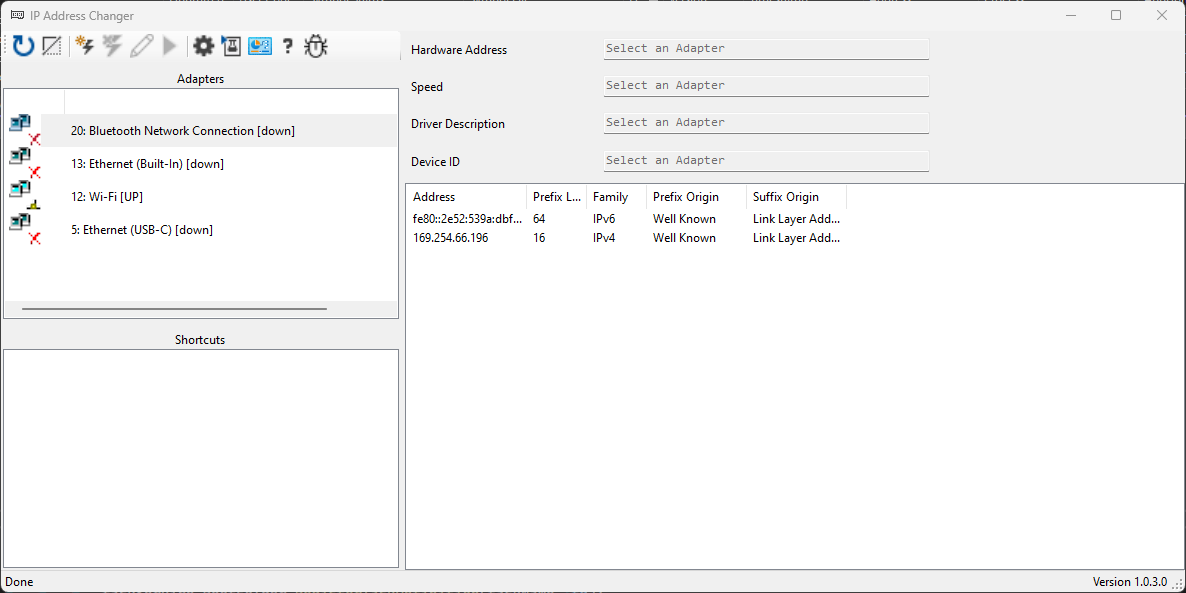
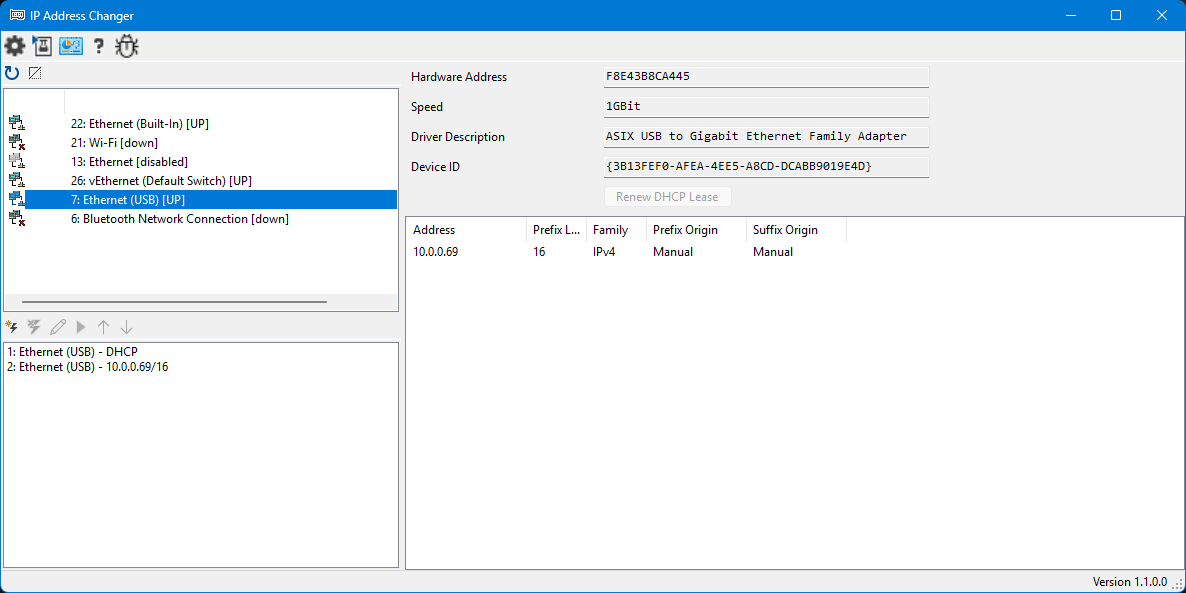
Updated readme, added changelog

diff --git a/frmAddressConflictWarning.Designer.cs b/frmAddressConflictWarning.Designer.cs
@@ -49,14 +49,14 @@ partial class frmAddressConflictWarning {
 		this.tableLayoutPanel1.RowCount = 3;
 		this.tableLayoutPanel1.RowStyles.Add(new RowStyle(SizeType.Percent, 69.06475F));
 		this.tableLayoutPanel1.RowStyles.Add(new RowStyle(SizeType.Percent, 30.9352512F));
-		this.tableLayoutPanel1.RowStyles.Add(new RowStyle(SizeType.Absolute, 23F));
+		this.tableLayoutPanel1.RowStyles.Add(new RowStyle(SizeType.Absolute, 24F));
 		this.tableLayoutPanel1.Size = new Size(444, 173);
 		this.tableLayoutPanel1.TabIndex = 2;
 		// 
 		// cmdClose
 		// 
 		this.cmdClose.Anchor = AnchorStyles.Top;
-		this.cmdClose.Location = new Point(174, 106);
+		this.cmdClose.Location = new Point(174, 105);
 		this.cmdClose.Name = "cmdClose";
 		this.cmdClose.Size = new Size(95, 37);
 		this.cmdClose.TabIndex = 2;
@@ -76,7 +76,7 @@ partial class frmAddressConflictWarning {
 		this.tableLayoutPanel2.Name = "tableLayoutPanel2";
 		this.tableLayoutPanel2.RowCount = 1;
 		this.tableLayoutPanel2.RowStyles.Add(new RowStyle(SizeType.Percent, 50F));
-		this.tableLayoutPanel2.Size = new Size(438, 97);
+		this.tableLayoutPanel2.Size = new Size(438, 96);
 		this.tableLayoutPanel2.TabIndex = 3;
 		// 
 		// txtConflictWarning
@@ -87,7 +87,7 @@ partial class frmAddressConflictWarning {
 		this.txtConflictWarning.Multiline = true;
 		this.txtConflictWarning.Name = "txtConflictWarning";
 		this.txtConflictWarning.ReadOnly = true;
-		this.txtConflictWarning.Size = new Size(364, 91);
+		this.txtConflictWarning.Size = new Size(364, 90);
 		this.txtConflictWarning.TabIndex = 0;
 		// 
 		// pictureBox1
@@ -96,7 +96,7 @@ partial class frmAddressConflictWarning {
 		this.pictureBox1.Image = Properties.Resources.warning_yellow_7231_32wx31h_exp;
 		this.pictureBox1.Location = new Point(3, 3);
 		this.pictureBox1.Name = "pictureBox1";
-		this.pictureBox1.Size = new Size(62, 91);
+		this.pictureBox1.Size = new Size(62, 90);
 		this.pictureBox1.SizeMode = PictureBoxSizeMode.CenterImage;
 		this.pictureBox1.TabIndex = 1;
 		this.pictureBox1.TabStop = false;
@@ -104,9 +104,9 @@ partial class frmAddressConflictWarning {
 		// chkSuppressMessages
 		// 
 		this.chkSuppressMessages.AutoSize = true;
-		this.chkSuppressMessages.Location = new Point(3, 152);
+		this.chkSuppressMessages.Location = new Point(3, 151);
 		this.chkSuppressMessages.Name = "chkSuppressMessages";
-		this.chkSuppressMessages.Size = new Size(249, 18);
+		this.chkSuppressMessages.Size = new Size(249, 19);
 		this.chkSuppressMessages.TabIndex = 4;
 		this.chkSuppressMessages.Text = "Don't show this warning again this session";
 		this.chkSuppressMessages.UseVisualStyleBackColor = true;

diff --git a/README.md b/README.md
@@ -1,11 +1,9 @@
 # IP Address Changer
 
 ## Overview
-This application allows changing IP address settings for network adapters from a quick list of user-defined configurations. IP addresses may be IPv4 or IPv6, or DHCP can be enabled. (IPv6 has not been tested.)
+This application allows changing IP address settings for network adapters from a quick list of user-defined configurations or copy/paste.
 
-The application requires elevated privileges and may only be run by a user who has administrator access to the system.
-
-The network adapter settings functionality is provided by PowerShell. If PowerShell is restricted or disabled, the application will not function properly.
+The application requires [elevated privileges](#privilege-elevation--uac-prompt) and may only be run by a user who has administrator access to the system.
 
 ## Table of Contents
 1. [Shortcuts](#shortcuts)
@@ -13,11 +11,15 @@ The network adapter settings functionality is provided by PowerShell. If PowerSh
     1. [Tool Bar](#tool-bar)
     1. [Status Bar](#status-bar)
     1. [Adapters List](#adapters-list)
+        1. [Adapter Context Menu](#adapter-context-menu)
     1. [Shortcuts List](#shortcuts-list)
+        1. [Shortcut Context Menu](#shortcut-context-menu)
     1. [Adapter Details](#adapter-details)
     1. [Adapter Address List](#adapter-addresses-list)
 1. [Notification Area Icon](#notification-area-icon)
 1. [New/Edit Shortcut Window](#newedit-shortcut-window)
+1. [Adapter Busy Dialog](#adapter-busy-dialog)
+1. [Address Conflict Warning](#address-conflict-warning)
 1. [Settings Window](#settings-window)
 1. [Debug Messages Window](#debug-messages-window)
 1. [Copyright](#copyright)
@@ -26,7 +28,7 @@ The network adapter settings functionality is provided by PowerShell. If PowerSh
 The functionality of the program revolves around Shortcuts, which are configuration presets for specific adapters. If the adapter name is changed, the shortcut should still work (it's based on its device ID). The adapter must be present for the shortcut to work, but the current adapter index does not matter because the shortcuts are based on the device ID.
 
 ## Main Window
-![Main Window](https://spectrumintegrators.github.io/IPAddressChanger/images/main.png)
+![Main Window](./images/main.png)
 
 ### Layout
 The main window is divided into a [Tool Bar](#tool-bar), a [Status Bar](#status-bar), and four areas: [Adapters List](#adapters-listadapters), [Shortcuts List](#shortcuts-list), [Adapter Details](#adapter-details), and [Adapters Address List](#adapter-addresses-list). The relative sizes of each area may be changed by dragging the bar between the areas (sizes are saved on exit).
@@ -75,12 +77,51 @@ Selecting an adapter will display additional details in the [Adapter Details](#a
 
 Double-clicking an adapter will create a new shortcut for that adapter.
 
+#### Adapter Context Menu
+
+![Adapter Context Menu](./images/adaptercontextmenu.png)
+
+Right-clicking an adapter shows a context menu with the following items:
+
+##### New Shortcut
+Creates a new empty shortcut for this adapter.
+
+##### New Shortcut with...
+Pre-fills the new-shortcut dialog with this adapter's currently configured method — either `DHCP` (if the adapter is set to acquire its address via DHCP) or the adapter's first IPv4 address and prefix length. Disabled when the adapter has neither (e.g. an adapter with no IPv4 configuration). The menu label shows what will be pre-filled, e.g. *New Shortcut with 10.0.0.69/16*.
+
+##### Renew DHCP for adapter
+Same action as the [Renew DHCP Lease](#renew-dhcp-lease) button in the [Adapter Details](#adapter-details) area. Enabled only when the adapter has IPv4 DHCP configured.
+
+##### Paste *value*
+Applies an IP/CIDR or `DHCP` value from the clipboard directly to this adapter, with the same workflow as recalling a shortcut. The menu label shows the value that will be pasted, e.g. *Paste 10.0.0.69/16* or *Paste DHCP*. Disabled when the clipboard does not contain a valid IPv4/CIDR or `DHCP` string.
+
+Note that the address in the clipboard does not have to have come from this software, if you copy a valid IP address and network prefix in CIDR notation or the literal string `DHCP`, the software will use that value to paste. If the IP address is invalid (like `123.456.789.12`), the paste feature will ignore it. Addresses with leading zeroes in an octet (`010.001.001.001`) will also be ignored.
+
+A pre-apply check refuses to assign an IP that is already in use on a different adapter on the same system, before any changes are made to this adapter.
+
 ### Shortcuts List
 This list shows all of the stored configuration preset shortcuts.
 
 Double-clicking a shortcut will either edit the shortcut or recall the shortcut, depending on the value of the [Start minimized](#start-minimized) setting.
 
 These shortcuts are also available in the Shortcuts menu of the [Notification Area Icon Menu](#notificaion-area-icon-menu).
+
+#### Shortcut Context Menu
+![Shortcut Context Menu](./images/shortcutcontextmenu.png)
+
+Right-clicking a shortcut shows a context menu with the following items:
+
+##### New Shortcut
+Creates a new shortcut.
+
+##### Edit Shortcut
+Opens the [New/Edit Shortcut Window](#newedit-shortcut-window) for the selected shortcut.
+
+##### Recall Shortcut
+Applies the selected shortcut to its associated adapter.
+
+##### Copy Shortcut
+Copies the shortcut's value (IP/CIDR or `DHCP`) to the clipboard. The clipboard contents can then be pasted onto any adapter via the [Paste](#paste-value) item on the adapter context menu.
 
 ### Adapter Details
 
@@ -95,6 +136,15 @@ The description of the driver that is used to interface with the adapter hardwar
 
 #### Device ID
 The unique identifier of this adapter.
+
+#### Renew DHCP Lease
+Releases and renews the DHCP lease on this adapter. Enabled only when the adapter has IPv4 DHCP configured. The renew operation typically completes in well under a second when a DHCP server responds, but may take 30–60 seconds when the network is unreachable or no server replies. While the process is underway, the [Adapter Busy Dialog](#adapter-busy-dialog) is displayed. It can be dismissed while the process continues in the background (additional operation on this adapter will be blocked until the process is complete). DHCP renewal errors will be shown in the [debug window](#debug-messages-window) and also in a popup dialog.
+
+![DHCP renewal error example](./images/dhcprenewerror.png)
+
+![DHCP not available error](./images/dhcprenewerror2.png)
+
+After a successful renew, the status bar suggests using [Refresh](#refresh) to update the address list with the new lease.
 
 ### Adapter Addresses List
 This shows all of the addresses configured for the selected adapter. You may resize and rearrange the columns (size and position will be saved on exit).
@@ -119,7 +169,7 @@ The origin of the host  portion of the address.
 ## Notification Area Icon
 The notification area icon appears in the notification area of the task bar near the clock (you may need to click the expand button to see it). Double-clicking the icon will show the application. Right clicking it will show a quick-access menu.
 
-![Notification Area](https://spectrumintegrators.github.io/IPAddressChanger/images/notificationmenu.png)
+![Notification Area](./images/notificationmenu.png)
 
 ### Notificaion Area Icon Menu
 
@@ -139,7 +189,7 @@ Launches the network adapters control panel.
 This menu contains all of the configured network adapter shortcuts. It is the same list as the [Shortcuts List](#shortcuts-list). Clicking one of these items will recall that shortcut.
 
 ## New/Edit Shortcut Window
-![Shortcut Window](https://spectrumintegrators.github.io/IPAddressChanger/images/shortcut.png)
+![Shortcut Window](./images/shortcut.png)
 
 ### Shortcut Name
 This is the name you will see in the [Shortcuts List](#shortcuts-list) and in the [Notification Area Icon Menu](#notificaion-area-icon-menu).
@@ -161,10 +211,26 @@ The length of the network portion of the address to use for this shortcut. For I
 ### Delete Button
 When editing an existing shortcut, you can instead choose to delete the shortcut from this window.
 
+## Adapter Busy Dialog
+![Adapter Busy Dialog](./images/adapterbusy.png)
+
+When an operation that mutates an adapter (recalling a shortcut, pasting an address, or renewing a DHCP lease) is in flight, a non-modal busy dialog appears for that adapter showing the current step. The dialog can be dismissed without aborting the operation, but closing it just hides the progress indicator while the operation continues in the background. If a second action is attempted on the same adapter while it is still busy, the dialog re-shows itself rather than starting a new operation.
+
+Operations on different adapters run in parallel, and each gets its own busy dialog. The rest of the UI (selecting other adapters, viewing details, opening Settings, etc.) remains responsive throughout.
+
+## Address Conflict Warning
+![Address Conflict Warning](./images/addressconflictwarning.png)
+
+After a refresh, if the application detects that two or more adapters are sharing the same IP address, a warning dialog is shown listing each conflict. Two adapters with the same address on the same machine is always a misconfiguration — Windows picks one and effectively ignores the other for routing purposes — so the warning is intended to surface accidents (e.g. recalling the same static-IP shortcut against two adapters).
+
+The dialog has a "do not show again" checkbox; checking it suppresses future conflict warnings for the remainder of the session. Restart the application to re-enable warnings.
+
+The application also performs a pre-apply check before assigning a static IP, refusing to create a conflict in the first place if it can detect one. The post-refresh warning catches conflicts that arise from outside the application or from operations that bypass the pre-apply check.
+
 ## Settings Window
 This window allows changing the functionality of the program.
 
-![Settings Window](https://spectrumintegrators.github.io/IPAddressChanger/images/settings.png)
+![Settings Window](./images/settings.png)
 
 ### Hide when minimized
 Hides the window from the task bar when it is minimized (it can be shown again from the [Notification Area Icon Menu](#notificaion-area-icon-menu)).
@@ -191,7 +257,7 @@ If for some reason your settings get hosed (for example, if somehow it stores th
 ## Debug Messages Window
 This window shows additional information about the actions the program is performing and the results of those actions. Note: this will delete all of your shortcuts too!
 
-![Debug Messages Window](https://spectrumintegrators.github.io/IPAddressChanger/images/debug.png)
+![Debug Messages Window](./images/debug.png)
 
 ### Tool Bar
 
@@ -209,9 +275,30 @@ This list contains all of the debug messages. Clicking a line will select it, us
 
 `CTRL+C` will copy selected items to the clipboard. `CTRL+A` will select all items.
 
+## Privilege Elevation & UAC Prompt
+
+![UAC Prompt](./images/uac.png)
+
+Privilege elevation is required to make changes to network configuration. The Settings app and `ncpa.cpl` route changes through the Network Connections service, which is already elevated and checks the caller's permissions itself — hence no UAC prompt. This application calls CIM/WMI directly, and those providers check the calling process's token, so the application has to be elevated up front. That's the UAC prompt at launch.
+
+The software isn't digitally signed, so the UAC prompt shows "unknown publisher."
+
+## Windows SmartScreen Warning
+If you downloaded this file from the Internet, there's a good chance you'll see the Windows SmartScreen warning saying "Windows has protected your PC." This is because the application isn't digitally signed and known to be safe by Microsoft. The path to fixing this is too long and expensive for an in-house tool, so you'll just have to "trust me, bro."
+
+## Things I Haven't Tested
+If you find a bug, use the bug report feature. But there are some things that I know might not work well and I just can't be bothered to test for since this is a limited-audience tech tool.
+
+* Different font DPI settings - may make text in forms cropped and unreadable
+* Different window scaling settings - this should be OK but different elements on the form may not scale correctly or proportionately
+* IPv6 - the software is generally aimed at IPv4 (and dotted-decimal addresses specifically)
+
+## AI Disclosure
+This project was completed before AI coding agents were a thing, but recent revisions have used the aid of an agent for refactorings and documentation. (Release [1.0.5.1](https://github.com/SpectrumIntegrators/IPAddressChanger/releases/tag/v1.0.5.1) was the last non-AI-assisted release.)
+
 ## Copyright
 	IP Address Changer - Windows GUI application to quickly change network address settings.
-    Copyright (C) 2024 Jonathan Dean (jonathand at spectrumintegrators.com)
+    Copyright (C) 2024-2026 Jonathan Dean (jonathand at spectrumintegrators.com)
 
     This program is free software: you can redistribute it and/or modify
     it under the terms of the GNU General Public License as published by

diff --git a/CHANGELOG.md b/CHANGELOG.md
@@ -1,0 +1,78 @@
+# Changelog
+
+All notable changes to this project are documented in this file. The format is loosely based on [Keep a Changelog](https://keepachangelog.com/en/1.1.0/), and this project adheres to a four-segment `Major.Minor.Patch.Build` version scheme.
+
+## [1.1.0.0] - 2026-04-29
+
+A substantial overhaul of the underlying networking layer and the per-operation UX. The application no longer depends on PowerShell or any third-party JSON library, and operations on different adapters can now run concurrently without freezing the UI.
+
+### Added
+- **DHCP renew** for the selected adapter, available as a toolbar button and on the adapter context menu. The button is enabled only when the selected adapter has DHCP configured for IPv4. A non-modal busy dialog reports progress while the renew is in flight (typically 1–60 seconds depending on whether a DHCP server responds).
+- **Address paste** to the selected adapter, from the adapter context menu. The menu item is enabled only when the clipboard contains a valid IPv4/CIDR string or `DHCP`, and it shows the value that will be pasted (e.g. *Paste 10.0.0.69/16*).
+- **Address copy** from the shortcut list — right-click a shortcut to copy its IP/prefix (or `DHCP`) to the clipboard.
+- **"New Shortcut with..."** on the adapter context menu, which pre-fills the new-shortcut dialog with the currently displayed IP/prefix or `DHCP`.
+- **Address conflict warning dialog**, raised after a refresh when two or more adapters share an IP. The dialog lists every conflict and offers a "do not show again" checkbox.
+- **Pre-apply duplicate-IP check**: before disabling DHCP and removing existing addresses, the app verifies the target IP is not already assigned to a different adapter. If it is, the operation is refused with a clear message and no state mutation occurs.
+- **Per-adapter "busy" dialogs** that report progress for slow operations. Operations on different adapters can run in parallel; the dialog can be dismissed without aborting the operation, and re-shows itself if a second action is attempted while the adapter is still busy.
+- **Adapter-state cache** so that change notifications which represent no user-visible difference are logged once as "no detectable change" instead of dumping the full adapter list, and the refresh icon only highlights when something actually changed.
+
+### Changed
+- **Networking layer**: all `Get-NetAdapter` / `Get-NetIPAddress` / `Set-NetIPInterface` / `New-NetIPAddress` / `Remove-NetIPAddress` invocations replaced with direct CIM calls via `Microsoft.Management.Infrastructure` against `root\StandardCimv2`. DHCP renew uses `Win32_NetworkAdapterConfiguration.RenewDHCPLease` in `root\cimv2`.
+- **JSON serialization** moved from `Newtonsoft.Json` to the built-in `System.Text.Json`. Existing user shortcut data round-trips unchanged.
+- **`ImageList` icons** are now loaded programmatically at form construction from individually-stored resources, rather than via the designer's `ImageStream` blob. The designer relied on `BinaryFormatter`, which is removed in .NET 9. The application is now forward-compatible with .NET 9+.
+- **Distribution size** dropped from ~100 MB to ~2 MB after removing the PowerShell SDK and its transitive dependencies.
+- **Adapter selection no longer triggers a global busy state**; only the adapter currently being modified is locked. Selecting a different adapter mid-operation works correctly and the UI remains responsive.
+
+### Fixed
+- "*Object reference not set to an instance of an object.*" popup when iterating adapters with null CIM property values (loopback, virtual NICs, Bluetooth PAN adapters). Property access is now null-safe with documented fallbacks.
+- Adapter list now refreshes after a failed shortcut apply so the displayed state reflects the actual (possibly partial) configuration rather than stale pre-failure data.
+- Stray unused `using` directives removed.
+
+### Removed
+- `Microsoft.PowerShell.SDK` package reference.
+- `Newtonsoft.Json` package reference.
+- Startup `Set-ExecutionPolicy` / `Import-Module NetTCPIP` calls (no longer needed).
+
+## [1.0.5.1] - 2024-07-21
+
+### Added
+- Sortable shortcut list (move up / move down buttons).
+
+### Fixed
+- GitHub workflow issue.
+
+## [1.0.4.0] - 2024-06-24
+
+### Added
+- Adapter status indicators (up / down / disabled icons in the adapter list).
+- *Start at log on* option, which creates a Task Scheduler entry to launch the app at user logon with elevated privileges (no UAC prompt at logon).
+
+## [1.0.2.1] - 2024-06-22
+
+### Added
+- Global hotkey to show and focus the window (default `Ctrl + Alt + Shift + F11`, configurable in Settings).
+
+## [1.0.1.0] - 2024-06-21
+
+### Added
+- Adapter change notifications — the refresh icon highlights when network state changes outside the application.
+
+## [1.0.0.0] - 2024-06-20
+
+Initial release.
+
+### Features
+- Saveable IP/prefix and DHCP shortcuts per adapter, recallable from the main window or the notification-area icon.
+- Per-adapter detail pane with hardware address, link speed, driver description, and device ID.
+- Per-adapter address list showing every assigned IPv4 / IPv6 address with prefix length, address family, and prefix/suffix origin.
+- Notification-area icon with quick access to shortcuts, show/hide, and adapter control panel launcher.
+- Settings dialog with start-minimized, hide-when-minimized, and double-click behavior options.
+- Debug message log with copy / save / clear.
+- Configurable network adapters control-panel launcher path.
+
+[1.1.0.0]: https://github.com/SpectrumIntegrators/IPAddressChanger/releases/tag/v1.1.0.0
+[1.0.5.1]: https://github.com/SpectrumIntegrators/IPAddressChanger/releases/tag/v1.0.5.1
+[1.0.4.0]: https://github.com/SpectrumIntegrators/IPAddressChanger/releases/tag/v1.0.4.0
+[1.0.2.1]: https://github.com/SpectrumIntegrators/IPAddressChanger/releases/tag/v1.0.2.1
+[1.0.1.0]: https://github.com/SpectrumIntegrators/IPAddressChanger/releases/tag/v1.0.1.0
+[1.0.0.0]: https://github.com/SpectrumIntegrators/IPAddressChanger/releases/tag/v1.0.0.0
